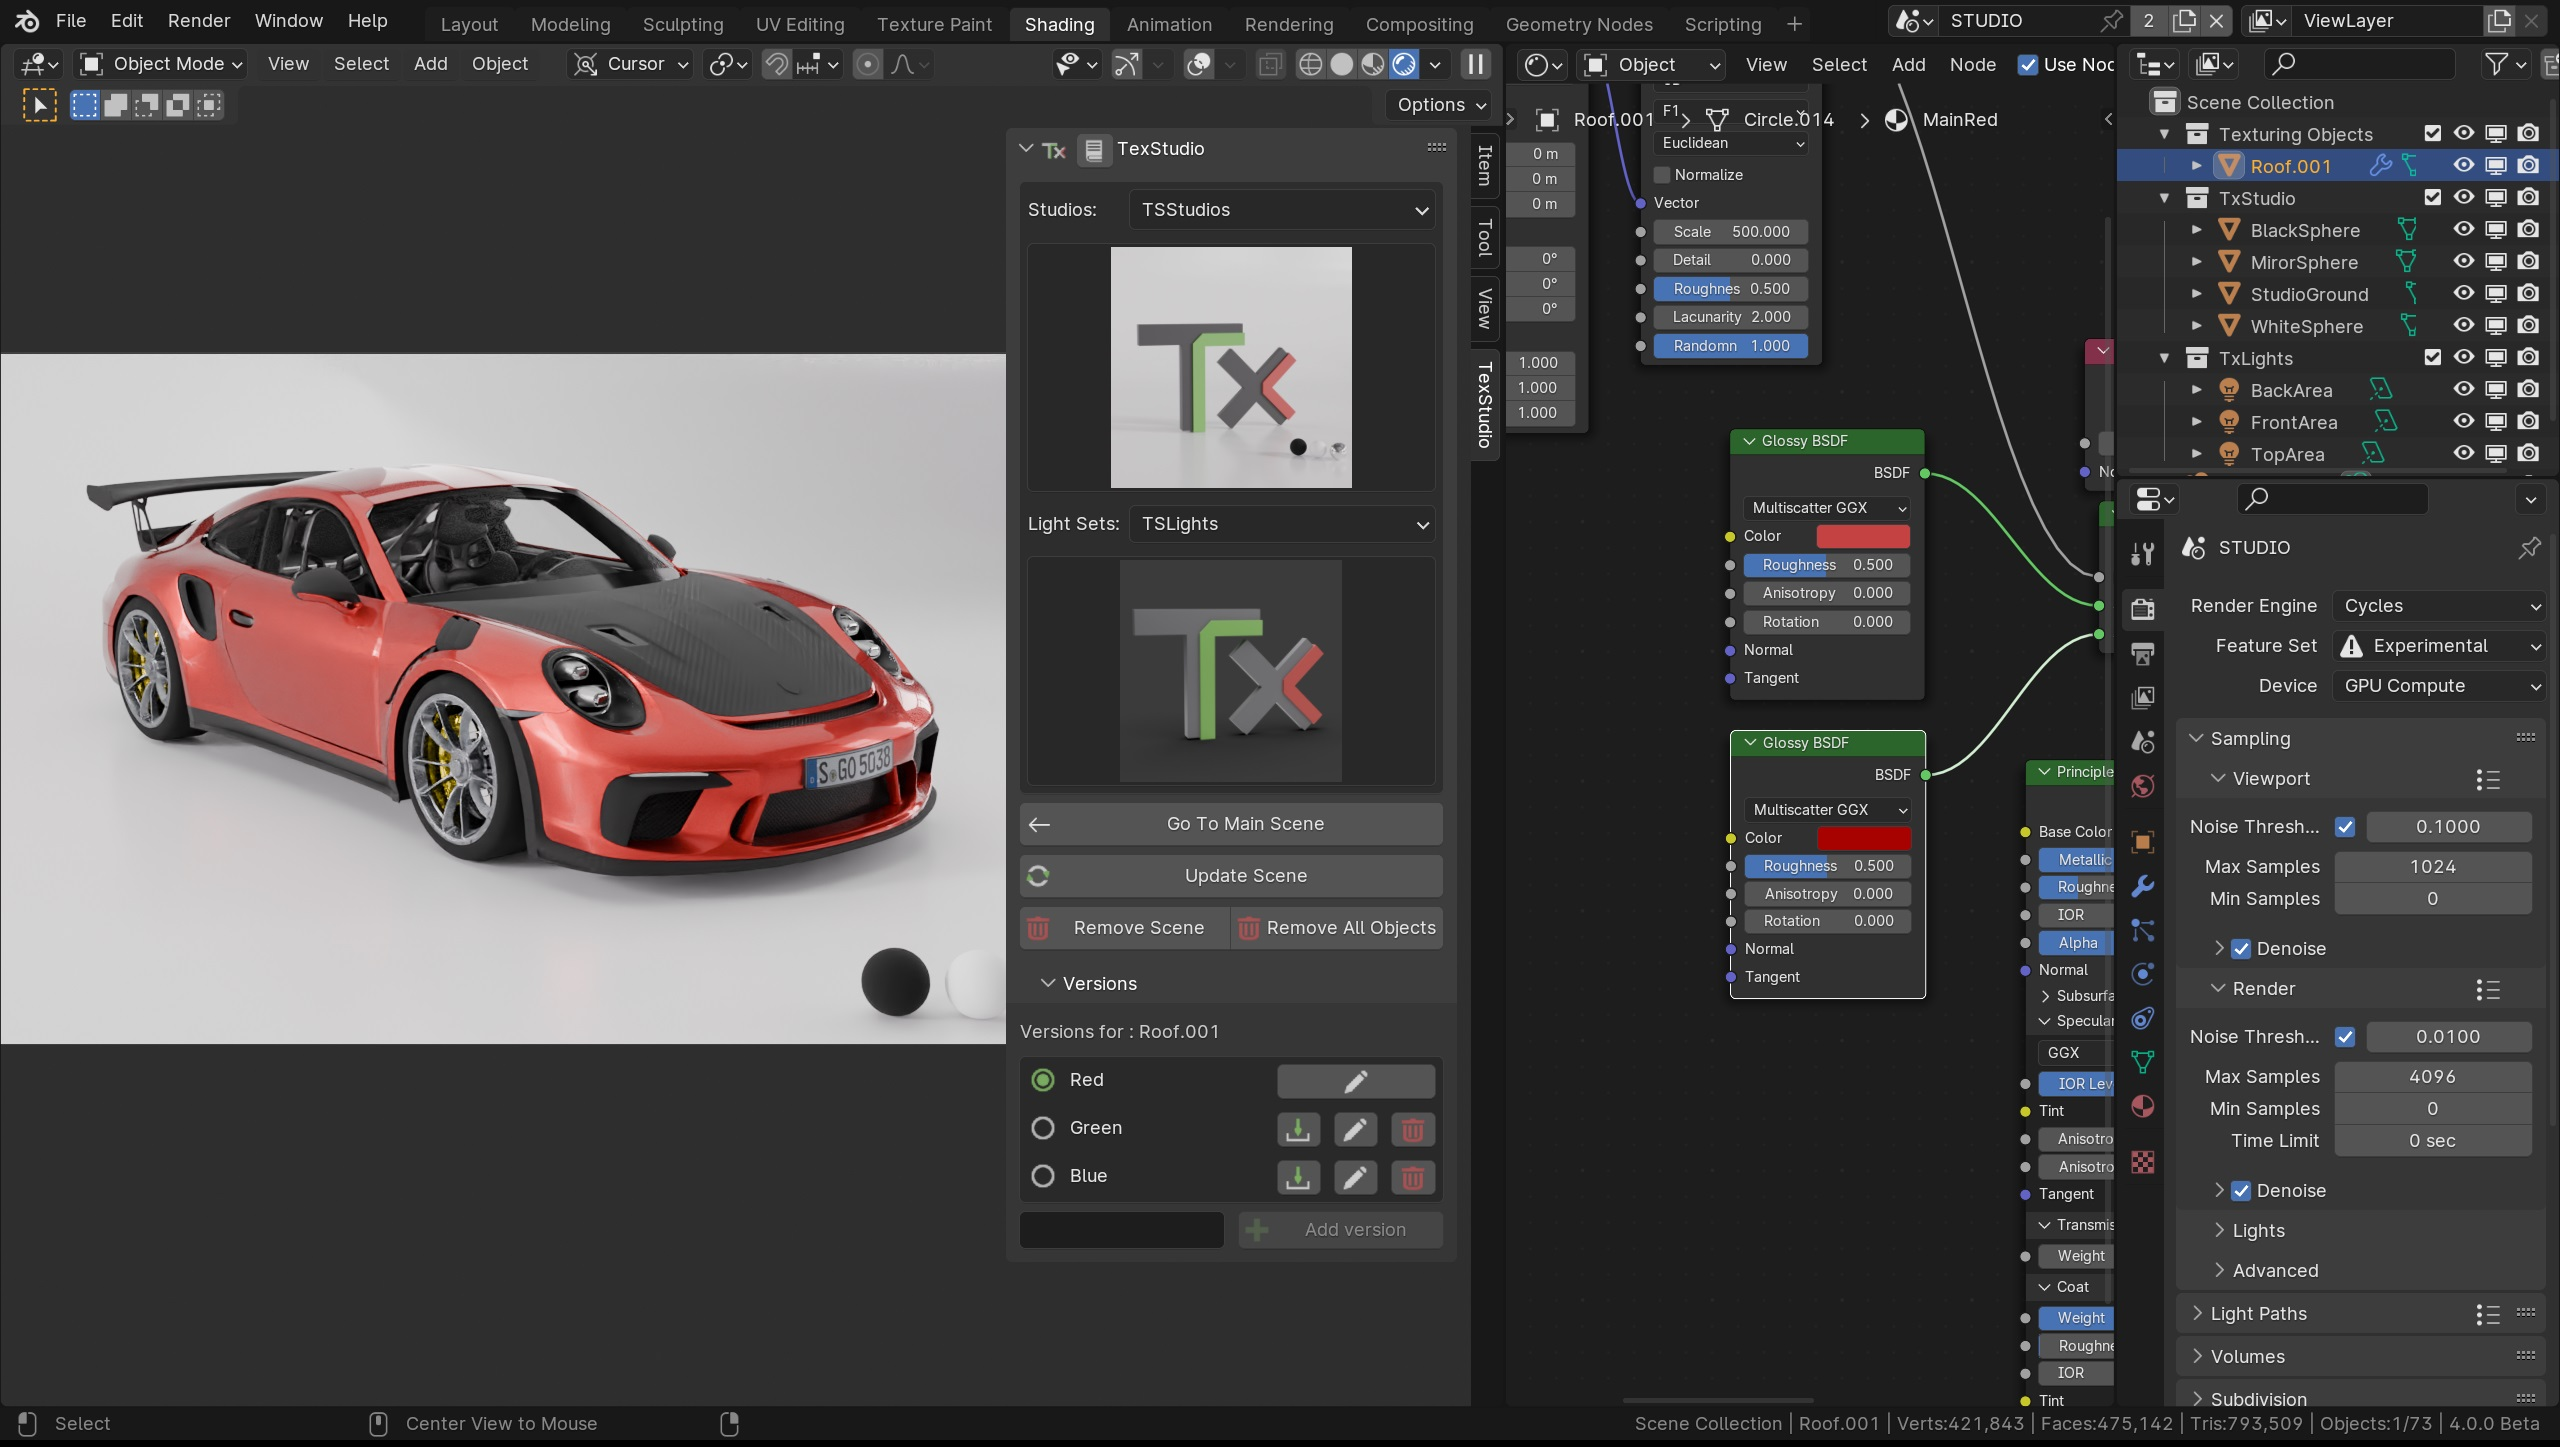
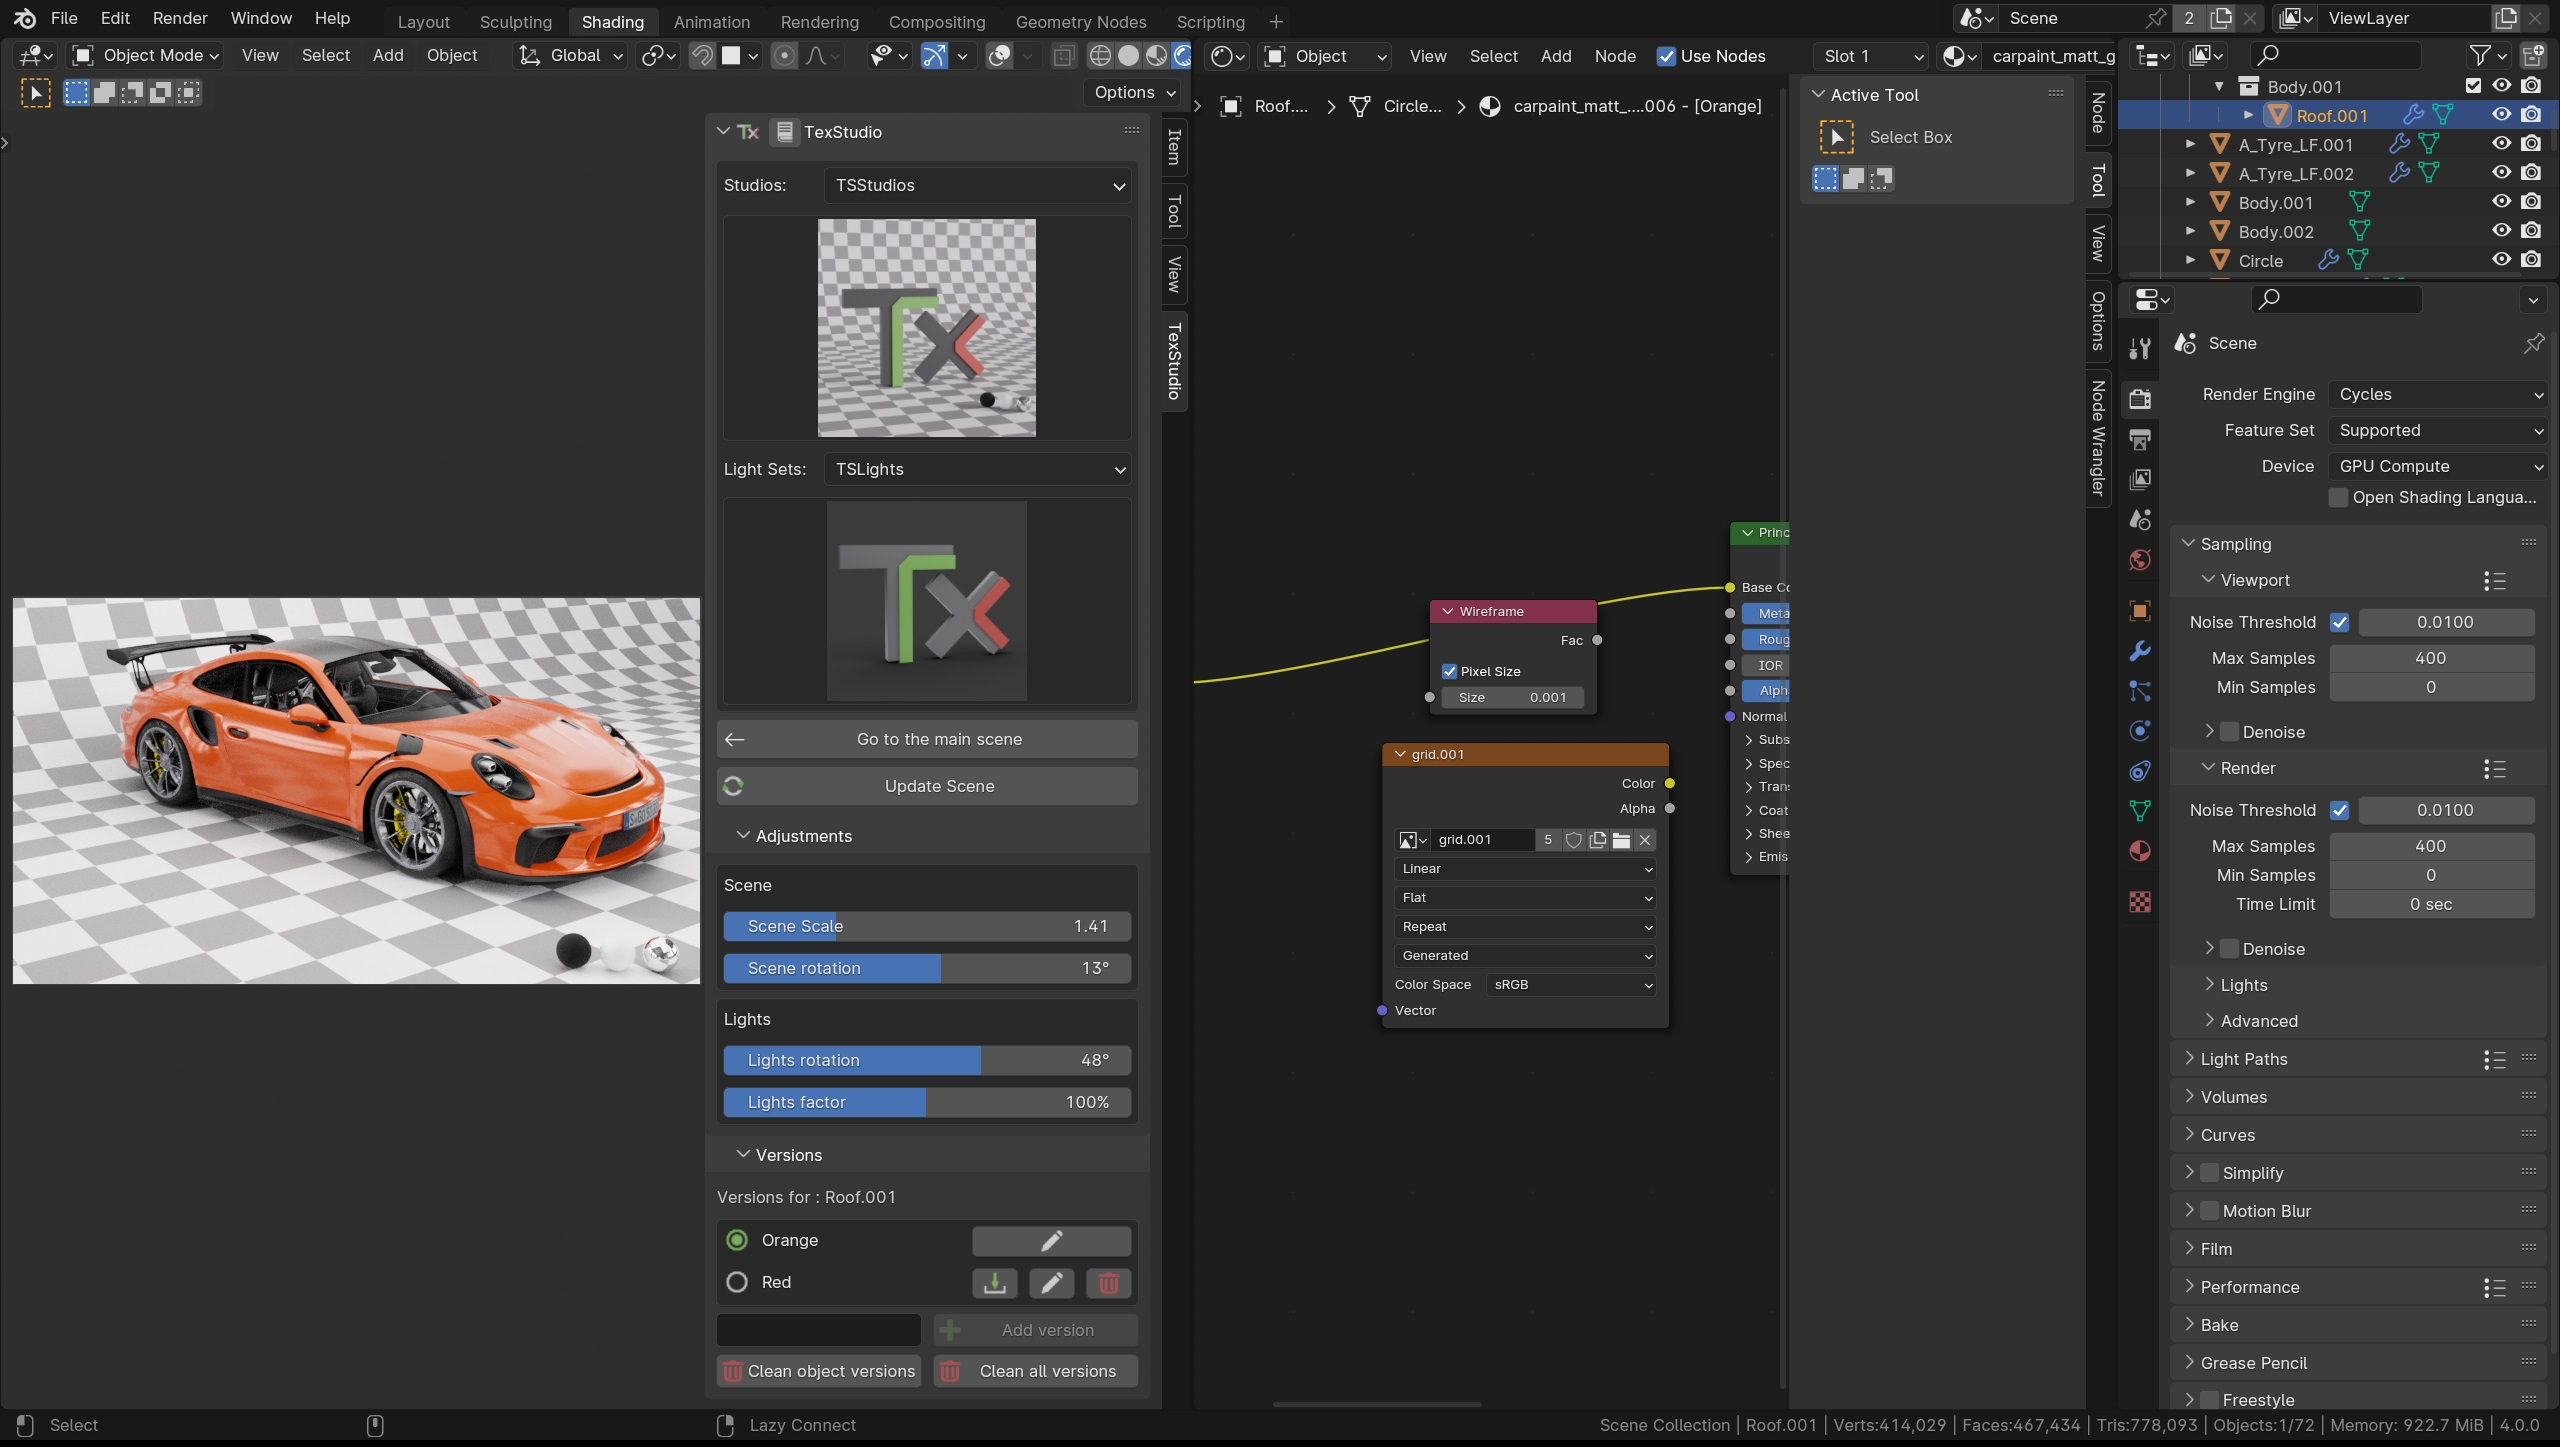
V2.0

diff --git a/docs/5.versions.md b/docs/5.versions.md
@@ -9,8 +9,6 @@ When you are in the texturing scene and an object is active, you are able to see
 
 You can create a new version of the object texture by entering a name and click on the `Add version` button.
 
-If your object as children objects, and you want to also create a new version for those children, check the box on top of the `Add version` button.
-
 Multiples actions are available :
 
 -  ![Apply version](images/import.png){ width="20" } Apply version
@@ -30,7 +28,13 @@ A version is saving the materials and the material index of each polygon of the 
 </figure>
 
 This popup means the version you want to apply is not matching the version you already have.
+
 -  Either the two versions (current and the one you want to apply) don't have the same number or materials
 -  Or they don't have the same number of polygons (the geometry as changed)
 
 No worries, you will still be able to apply the version if you click `OK`. You will probably (but maybe not) need to reassign the right material to the right faces.
+
+
+!!! info
+    If you want to clean you scene of **all the inactive versions**, click the `Clean all versions` button. If you want to do it only for the selected object, use
+    the `Clean object versions` button.

diff --git a/docs/index.md b/docs/index.md
@@ -1,8 +1,8 @@
 # 1. Welcome to TexStudio Documentation
 
-**Current version : 1.0.0**
+**Current version : 2.0.0**
 
-This Blender addon is made to provide you the bests studios and light setups to texture and showcase your objects.
+This Blender addon is made to provide you the best studios and light setups to texture and showcase your objects.
 
 <figure markdown>
   ![TexStudio](images/MainPresentation.jpg){ width="800" } 
@@ -13,9 +13,6 @@ This Blender addon is made to provide you the bests studios and light setups to 
 With this addon you will be able to import a studio and a light setup to texture your object directly inside you current blender project.
 
 No need to texture you objects in separate files. Select the object, select the studio and light setup and click on the import button and you are ready to texture.
-
-!!! info Synchronization
-    The textures are automatically synchronized with the main scene
 
 !!! warning
     The addon works with Blender version **4.0 and greater** only

diff --git a/docs/4.howItWorks.md b/docs/4.howItWorks.md
@@ -14,8 +14,8 @@ TexStudio is providing a user interface in the `NPanel > TexStudio`. You will be
 - Click on the `Import Selected Scene` button
 
 !!! warning
-    **Do not apply** any data on the object (ex.: scale, location, rotation, ...) in the texturing or main scene. This will break the material synchronization
-    between the two scenes.
+    Rotating, moving or scaling the objects in `texturing mode` will also rotate, move or scale them in your main scene.
+    Use the `Adjustments panel` instead.
 
 ## Update the scene
 

diff --git a/docs/7.create_studio.md b/docs/7.create_studio.md
@@ -7,7 +7,10 @@ To create a studio, you need :
 -  Open a new Blender project
 -  Create a Collection named `TxStudio`
 -  Put all the objects you need in your studio in this Collection (floor and other assets)
--  The floor of your studio has to be 13 meters by 13 meters
+-  The floor of your studio has to be 13 meters by 13 meters. 
+
+!!! warning
+    The floor of your studio has to be named `StudioGround`.
 
 File structure:
 
